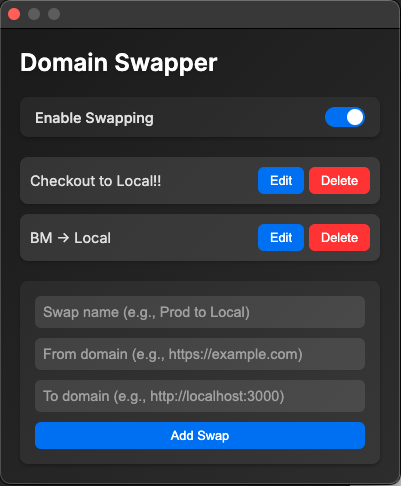
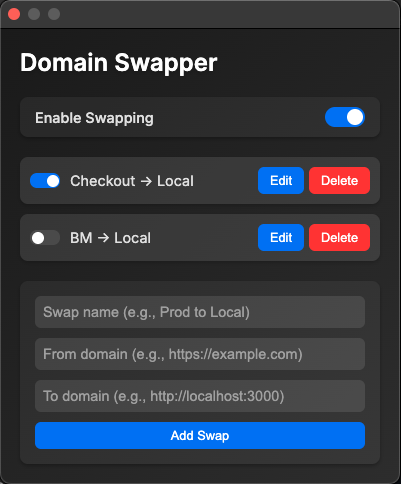
Update screenshot

diff --git a/PRIVACY_POLICY.md b/PRIVACY_POLICY.md
@@ -1,0 +1,28 @@
+Privacy Policy for Domain Swapper
+Last Updated: March 13, 2025
+
+This Privacy Policy explains how Domain Swapper, a Chrome extension developed by Vicente Santos, handles your data. We are committed to protecting your privacy and ensuring transparency.
+
+Information We Collect
+Domain Swapper does not collect, store, or transmit any personal information or user data to external servers. The extension uses the following permissions solely for its functionality:
+
+activeTab: To access the current tab’s URL for domain swapping.
+storage: To save your custom domain swaps (e.g., "from" and "to" domains, swap names, and enable/disable settings) locally in Chrome’s storage.
+tabs: To update the tab’s URL during a swap.
+All data is stored locally on your device using Chrome’s chrome.storage.sync API and is accessible only by the extension. No data is shared with third parties, and no analytics or tracking is performed.
+
+How We Use Your Data
+The data stored locally (domain swap configurations and toggle states) is used exclusively to enable the extension’s core feature: automatically redirecting between predefined domains. This data is never accessed, processed, or transmitted outside your browser.
+
+Data Retention
+All data is retained locally on your device for as long as you use the extension. You can clear this data by removing the extension from Chrome or resetting your settings manually. We do not have access to or control over this data.
+
+Your Choices
+You can disable the extension or individual swaps at any time via the popup interface.
+To delete all stored data, uninstall the extension from Chrome (chrome://extensions/).
+
+Changes to This Policy
+We may update this Privacy Policy to reflect changes in functionality or legal requirements. The latest version will always be available here. Significant changes will be communicated via the Chrome Web Store listing or the extension’s popup.
+
+Contact
+If you have questions or concerns about this Privacy Policy, please contact us at vicentedpsantos at gmail.

diff --git a/README.md b/README.md
@@ -7,6 +7,7 @@ A modern and sleek Chrome extension that allows you to automatically swap predef
 ## Features
 - Automatically swaps domains when landing on a registered "from" domain.
 - Toggle to enable or disable swapping.
+- Toggle each swap individually.
 - Add, edit, and delete domain swaps with custom names.
 - Persistent storage of swaps and toggle state.
 
